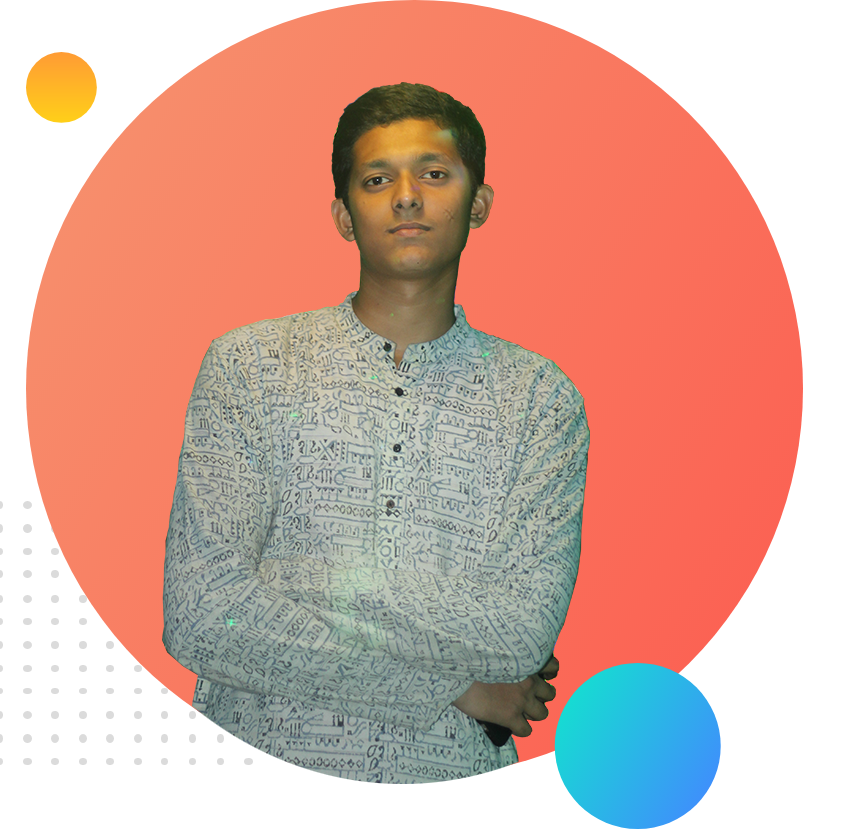
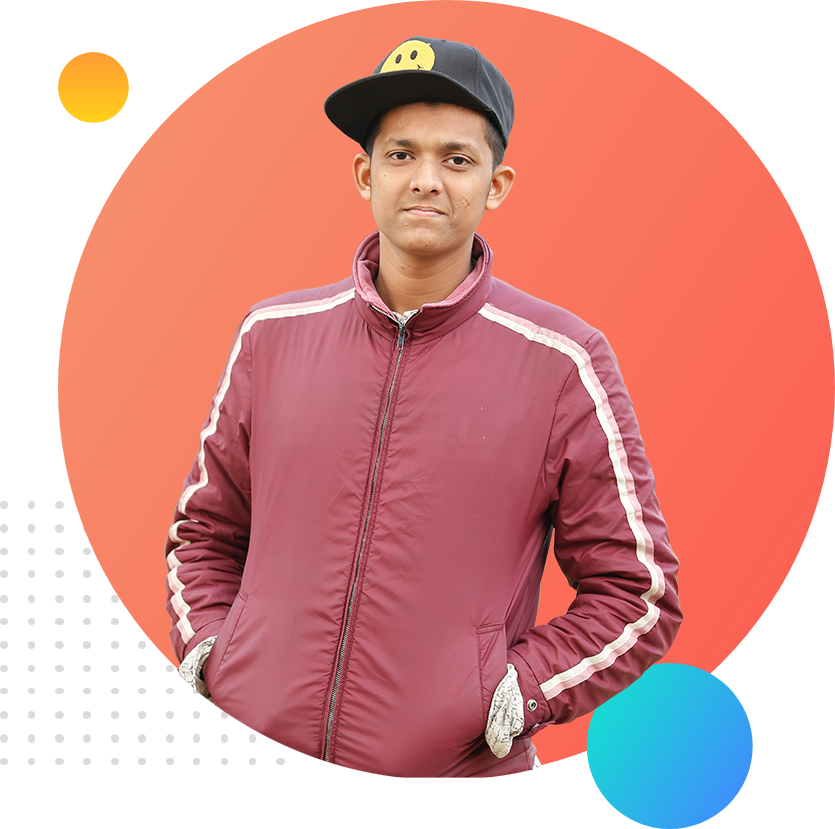
All Complete

diff --git a/index.html b/index.html
@@ -4,6 +4,7 @@
     <meta charset="UTF-8">
     <meta http-equiv="X-UA-Compatible" content="IE=edge">
     <meta name="viewport" content="width=device-width, initial-scale=1.0">
+    <link rel="shortcut icon" href="images/favicon.ico" type="image/x-icon">
     <link href="https://fonts.googleapis.com/css2?family=Poppins&display=swap" rel="stylesheet">
     <link rel="stylesheet" href="style.css">
     <title>Mehedi Hasan-Web Developer</title>
@@ -12,14 +13,47 @@
     <section class="top-banner">
         <div class="half-width">
             <h1>Welcome To</h1>
-            <h1><span class="name-highlight">Mehedi's</span> World</h1>
-            <h3>World-Class Professional Web Developer</h3>
-            <p>You might saw me jumping, climbing buildings, and stopping trains. But nobody pays me a dime for that work. That's why I am learning and mastering web development. I will not stop until I become the Web Development Hero.</p>
+            <h1><span class="highlight">Mehedi's</span> World</h1>
+            <h3>Software Engineer & Full Stack Web Developer</h3>
+            <p>Hi, I am Mehedi Hasan Rabbi. I am a Software Engineer(Internship) & Full Stack Web Developer. I am currently an undergraduate student in <a target="_blank" href="http://pstu.ac.bd/">Patuakhali Science & Technology University</a>. There I am studying B.Sc(Engg.) in Computer Science & Engineering.</p>
+            <a class="link-button" target="_blank" href="">HIRE ME</a>
         </div>
 
         <div class="half-width">
             <img src="images/profile1.png" alt="">
         </div>
     </section>
+
+    <section class="dream-area">
+        <div class="half-width">
+            <img src="images/profile2.png" alt="">
+        </div>
+
+        <div class="half-width">
+            <h2>Big Dream</h2>
+            <h3>Become World's No. 1 Software Engineer & Web Developer</h3>
+            <p>For being a Software Engineer I have learned C, C++, Java, Python Programming Languages. I have also leared Java Swing & Pyhton's Tkinter toolkit. I also build a Library Management Software using Java Swing & MySQL.</p>
+            <p>I already learned the basic HTML and CSS. I can build any simple website. My goal is learn advanced topics.</p>
+            <a class="link-button" target="_blank" href="">DOWNLOAD RESUME</a>
+        </div>
+    </section>
+
+    <section class="experience-area">
+        <h2>Experiences</h2>
+        <div class="half-width single-experience" id="software-engineer">
+            <h2>Software Engineer</h2>
+            <h3 class="highlight">2021-Present | Brain-Station 32 Company (Internship)</h3>
+            <p>Now I am currently an internship student in Brain Station 23 tech company. It is top rated tech company in bangladesh. Here I creat, test, debug software. I am alwayes get myself familiar with new tech updates. I push myself alwayes beyond my limit.</p>
+        </div>
+        <div class="half-width single-experience" id="full-stack">
+            <h2>Full Stack Web Developer</h2>
+            <h3 class="highlight">2021-Present | Beginner Level Developer</h3>
+            <p>I am the master of HTML, CSS. I know everything needed to make a website function, efficient using HTML & CSS. I didn't stop with the web. I went beyond with most popular framework called Bootstrap. I even know the deployment, server and security. I will give you 100% web solution.</p>
+        </div>
+    </section>
+
+    <footer>
+        <p>© Mehedi Hasan 2021, All rights reserved.</p>
+    </footer>
 </body>
 </html>

diff --git a/style.css b/style.css
@@ -7,7 +7,14 @@ h1{
     font-size: 50px;
 }
 
-.name-highlight{
+h2{
+    font-size: 40px;
+}
+
+p{
+    color: dimgray;
+}
+.highlight{
     color: orange;
 }
 
@@ -20,7 +27,7 @@ h1{
 
 .half-width img{
     width: 100%;
-    padding-top: 1%;
+    padding-top: 5%;
 }
 
 .top-banner{
@@ -30,4 +37,50 @@ h1{
 
 section{
     height: 500px;
+    padding-bottom: 150px;
+}
+
+.link-button{
+    text-decoration: none;
+    background-image: linear-gradient(45deg, lightsalmon, tomato);
+    padding: 10px 20px;
+    border-radius: 10px;
+    color: white;
+    font-weight: 700;
+}
+
+.dream-area{
+    background-image: url("images/dream-bg.png");
+    background-repeat: no-repeat;
+    background-position: right;
+}
+
+.single-experience{
+    box-shadow: 10px 10px 40px gray;
+    border-radius: 2%;
+    height: 80%;
+}
+
+.experience-area{
+    background-image: url("images/exp-bg.png");
+    background-repeat: no-repeat;
+    background-position: left;
+}
+
+#software-engineer{
+    border-left: 7px solid;
+    border-image: linear-gradient(180deg, blue, cyan);
+    border-image-slice: 1;
+    background-color: white;
+}
+
+#full-stack{
+    border-left: 7px solid;
+    border-image: linear-gradient(180deg, lightsalmon, tomato);
+    border-image-slice: 1;
+}
+
+footer p{
+    text-align: center;
+    font-size: 12px;
 }
